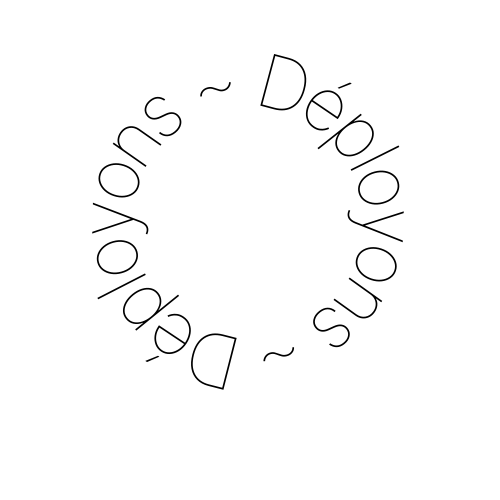
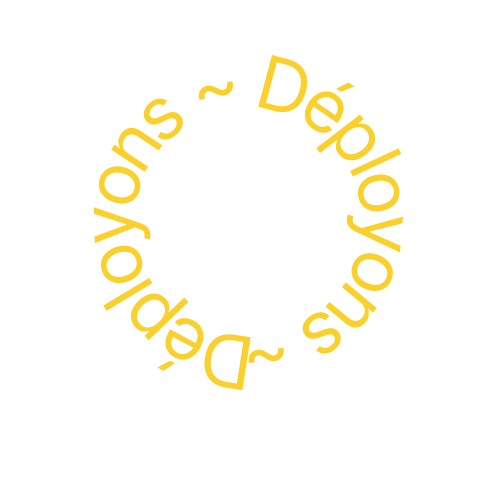
Update pictures and style

Changed region(s): [[0.18, 0.18, 0.6, 0.78], [0.51, 0.09, 0.81, 0.72], [0.39, 0.15, 0.48, 0.21]]

diff --git a/src/components/Methods/index.jsx b/src/components/Methods/index.jsx
@@ -6,8 +6,8 @@ import CtaDeploy from '../../assets/Cta/Deployons.png';
 import CtaAnalyze from '../../assets/Cta/Analysons.png';
 import CreaPhoto from '../../assets/PlaineImages/sybshooting_pi-14.jpg';
 import AnalysePhoto from '../../assets/PlaineImages/sybshooting_pi-53.jpg';
-import OptimisePhoto from '../../assets/RelationClient/annie-spratt-QckxruozjRg-unsplash.jpg';
-import DeployPhoto from '../../assets/ReseauxSociaux/pexels-picjumbocom-196655.jpg';
+import OptimisePhoto from '../../assets/PlaineImages/syb_shooting_laptop-14.jpg';
+import DeployPhoto from '../../assets/PlaineImages/syb_shooting_laptop-23.jpg';
 import 'aos/dist/aos.css';
 import { SSlideMethods, TitleMethods } from './style';
 
@@ -128,19 +128,17 @@ export default function Methods() {
                 src={method.picture}
                 alt={`${method.picture}`}
               />
-              <button type="button" className="btnMethod">
-                <a
-                  href="mailto:hello@syb-group.fr?subject=On se rencontre quand ?"
-                  target="_blank"
-                  rel="noreferrer"
-                >
-                  <img
-                    className="imgBtn"
-                    src={method.button}
-                    alt={`${method.title}`}
-                  />
-                </a>
-              </button>
+              <a
+                href="mailto:hello@syb-group.fr?subject=On se rencontre quand ?"
+                target="_blank"
+                rel="noreferrer"
+              >
+                <img
+                  className="imgBtn"
+                  src={method.button}
+                  alt={`${method.title}`}
+                />
+              </a>
             </button>
           ))}
         </section>

diff --git a/src/components/Expertise/HeaderExpertise/style.jsx b/src/components/Expertise/HeaderExpertise/style.jsx
@@ -42,7 +42,7 @@ const SExpertise = styled.section`
     width: 15vw;
     height: 5vh;
     font-size: 2rem;
-    margin-left: 25vw;
+    margin-left: 19vw;
   }
   .titleExpertise {
     width: 18vw;
@@ -93,7 +93,7 @@ const SExpertise = styled.section`
   @media screen and (min-width: 360px) and (max-width: 767px) {
     padding-top: 3vh;
     .expertise {
-      height: 115vh;
+      height: 125vh;
     }
     .blocExpertise {
       flex-direction: column;
@@ -104,13 +104,18 @@ const SExpertise = styled.section`
       margin-left: 10vw;
       margin-bottom: 0vh;
     }
+    .opacity {
+      margin: 13vh 44vw;
+      height: 300px;
+    }
     .ctaExpertise {
       padding-top: 42vh;
-      margin-left: -25vw;
+      margin-left: -35vw;
+      width: 0vw;
     }
     .firstTitleExpertise {
       width: 45vw;
-      margin-left: -30vw;
+      margin-left: -40vw;
       margin-bottom: 0;
       margin-top: 3vh;
       font-size: 1.5rem;
@@ -121,7 +126,7 @@ const SExpertise = styled.section`
       width: 50vw;
       height: 10vh;
       margin-top: 5vh;
-      margin-left: -40vw;
+      margin-left: -15vw;
     }
     .leftExpertise {
       width: 80vw;

diff --git a/src/components/Methods/style.jsx b/src/components/Methods/style.jsx
@@ -117,25 +117,27 @@ const SSlideMethods = styled.div`
     margin-left: 6vw;
     object-fit: cover;
   }
-  .btnMethod {
-    width: 10vw;
-    height: 20vh;
-    margin-top: 1vh;
-    margin-left: 6vw;
-    border-radius: 50%;
-    border: none;
-    background-color: transparent;
-    :hover {
-      background-color: var(--secondary-font-color);
-    }
-  }
   .imgBtn {
     width: 10vw;
-    margin-top: 0.5vh;
-    margin-left: -0.3vw;
-    a {
-      text-decoration: none;
-      color: var(--fourth-font-color);
+    margin-top: -8vh;
+    margin-left: 3vw;
+    animation: rotate 30s linear 0s infinite;
+    @keyframes rotate {
+      0% {
+        transform: rotate(0deg);
+      }
+      25% {
+        transform: rotate(90deg);
+      }
+      50% {
+        transform: rotate(180deg);
+      }
+      75% {
+        transform: rotate(270deg);
+      }
+      100% {
+        transform: rotate(360deg);
+      }
     }
   }
 
@@ -164,10 +166,7 @@ const SSlideMethods = styled.div`
     .imgBox {
       margin-top: -13vh;
     }
-    .btnMethod {
-      display: none;
-    }
-    .ctaMethods {
+    .imgBtn {
       display: none;
     }
   }

diff --git a/src/components/Footer/ContactUS/style.jsx b/src/components/Footer/ContactUS/style.jsx
@@ -128,8 +128,9 @@ const SContactUs = styled.section`
   /*MODE MOBIL*/
   @media screen and (min-width: 360px) and (max-width: 767px) {
     .gridFooter {
-      width: 95vw;
+      width: 90vw;
       margin-left: 2vw;
+      flex-wrap: wrap;
     }
     .titleContact {
       width: 32vw;
@@ -179,11 +180,14 @@ const SContactUs = styled.section`
     .socialLogo {
       display: flex;
     }
+    .phone {
+      border: 1px solid var(--primary-font-color);
+    }
     .social,
     .adresse,
     .phone,
     .mail {
-      width: 45vw;
+      width: 44vw;
       height: 29vh;
     }
     .iconLinkedIn {
@@ -194,14 +198,15 @@ const SContactUs = styled.section`
       padding-bottom: 0;
     }
     .iconInsta,
-    .iconPhone {
+    .iconPhone,
+    .iconFacebook {
       padding-top: 8vh;
     }
     .iconAdresse {
       padding-top: 5vh;
     }
     .iconArrow {
-      padding: 18vh 1vw 0 0;
+      padding: 20vh 1vw 0 0;
     }
     .place,
     .street,

diff --git a/src/components/Goals/PellMell/style.jsx b/src/components/Goals/PellMell/style.jsx
@@ -39,29 +39,30 @@ const SPellMell = styled.section`
   @media screen and (min-width: 360px) and (max-width: 767px) {
     .peleMele {
       width: 80vw;
-      margin-left: 10vw;
+      margin-left: 15vw;
       margin-top: 5vh;
     }
-    .photo5 {
-      width: 38vw;
+    .photo1 {
+      width: 30vw;
+      height: 25vh;
       margin-left: 41vw;
       margin-top: 0vh;
     }
-    .photo6 {
+    .photo2 {
       width: 40vw;
       height: 12vh;
-      margin-top: 5vh;
+      margin-top: 2vh;
     }
-    .photo7 {
+    .photo3 {
       width: 25vw;
       height: 20vh;
-      margin-top: 27vh;
+      margin-top: 17vh;
       margin-left: 21vw;
     }
-    .photo9 {
+    .photo4 {
       width: 50vw;
       height: 15vh;
-      margin-top: 19vh;
+      margin-top: 13vh;
     }
   }
   /*MODE TABLET*/

diff --git a/src/components/Expertise/BoxDownExpertise/style.jsx b/src/components/Expertise/BoxDownExpertise/style.jsx
@@ -60,7 +60,7 @@ const SBoxDownExpertise = styled.section`
       flex-direction: column;
       padding-top: 5vh;
       width: 100vw;
-      height: 40vh;
+      height: 45vh;
     }
     h2 {
       width: 80vw;
@@ -94,7 +94,7 @@ const SBoxDownExpertise = styled.section`
     .textSentenceTwo {
       width: 80vw;
       padding-top: 4vh;
-      font-size: 1.3rem;
+      font-size: 0.9rem;
       margin-left: -1.5vw;
     }
   }

diff --git a/src/components/Goals/style.jsx b/src/components/Goals/style.jsx
@@ -134,7 +134,7 @@ const SGoals = styled.section`
     }
     .textGoalThree {
       width: 70vw;
-      font-size: 1.2rem;
+      font-size: 0.9rem;
     }
     .btnMeet {
       width: 40vw;
